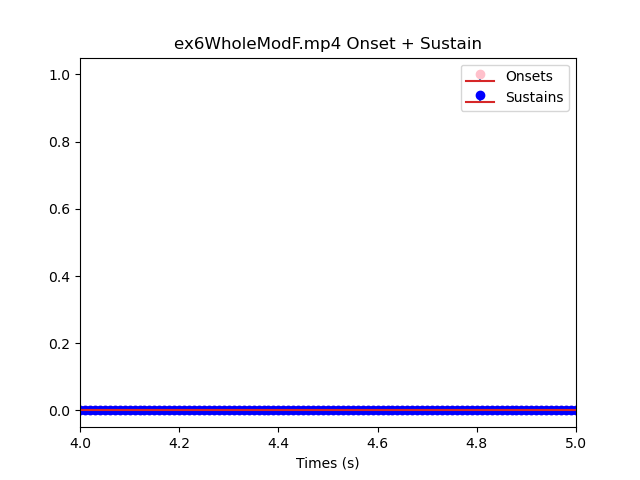
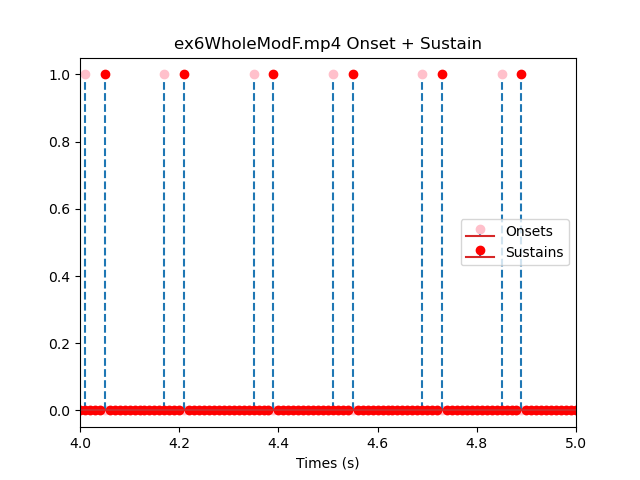
manually adjusted sustain spectral flux threshold

diff --git a/helpers.py b/helpers.py
@@ -90,13 +90,13 @@ def detect_onsets(spec_flux, times, threshold=0.15, min_time_between=0.15):
 
     return onsets
 
-def detect_onsets_and_release(spec_flux, times, sr, onset_thresh=0.15, sustain_thresh=.1, min_time_between=0.15):
+def detect_onsets_and_release(spec_flux, times, sr, onset_thresh=0.15, sustain_thresh=.13, min_time_between=0.15):
     onsets = [] # indices onsets incur
-    sustains = [] # indeces sustains incur
+    sustains = [] # indices sustains incur
     search_sustain: bool = False # if true, then we're looking for sustain phase. if false, we're looking for next onset
     onset_init: int = 0
 
-    mtb_samples = min_time_between * sr
+    mtb_samples = int(min_time_between * sr * .2)
 
     for i in range(1, len(spec_flux) - 1):
         # keep track of last time we we're below threshold -> will be when not articulation begins
@@ -108,7 +108,8 @@ def detect_onsets_and_release(spec_flux, times, sr, onset_thresh=0.15, sustain_t
                     onsets.append(onset_init)
                     search_sustain = True
         else:
-            window = np.arange(i, min(onsets[-1] + mtb_samples, len(times)))
+            window = np.arange(i, min(i + mtb_samples, len(times)))
+            # window = np.arange(i, min(onsets[-1] + mtb_samples, len(times)))
             if np.average(spec_flux[window]) < sustain_thresh:
                 sustains.append(i)
                 search_sustain = False
